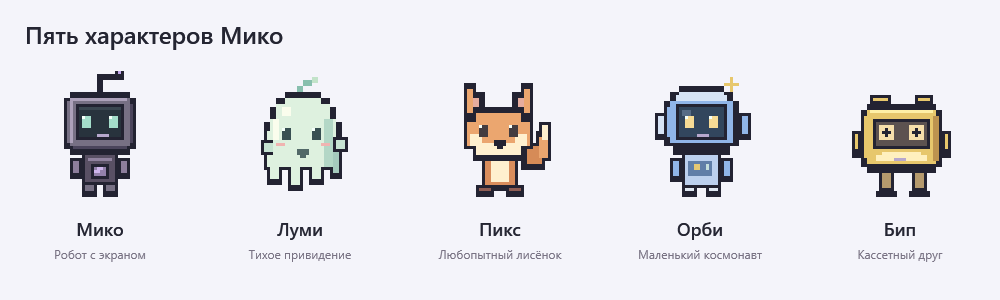
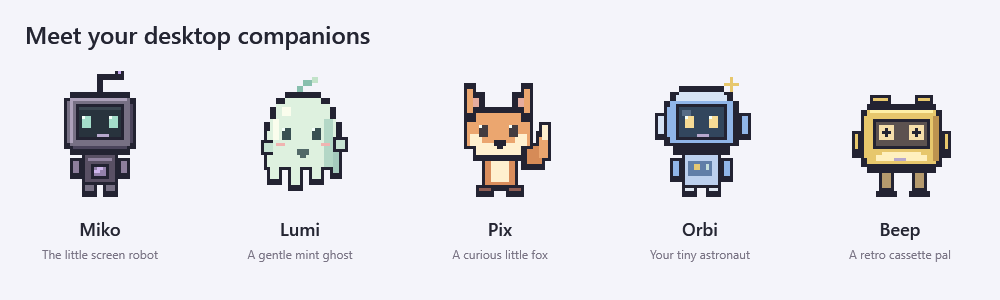
Add English screenshots and animated mascot state previews

diff --git a/preview/README.md b/preview/README.md
@@ -1,3 +1,5 @@
-# Превью и проверки
+# App previews
 
-Изображения пяти маскотов, меню приложения и журналы тестов. Пользовательских встреч, личных настроек и ключей здесь нет.
+English screenshots and two GIF animations rendered from Miko's WPF interface. Preview mode uses generic devices and an example data path, with no personal recordings or API keys. The recording-state GIF uses a simulated audio level. Regeneration commands are in [BUILDING.md](../BUILDING.md).
+
+The API and UI reports come from the isolated v0.4.0 test run.
